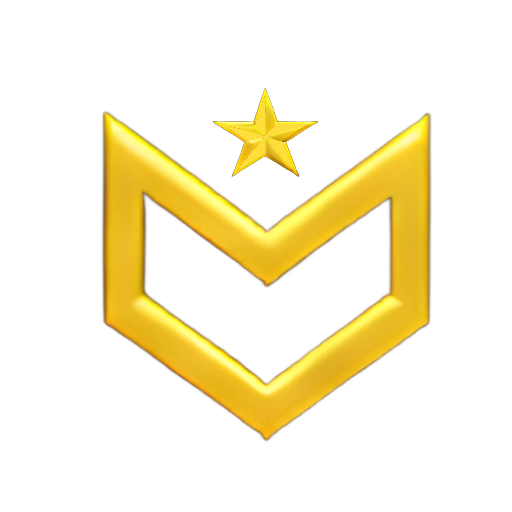
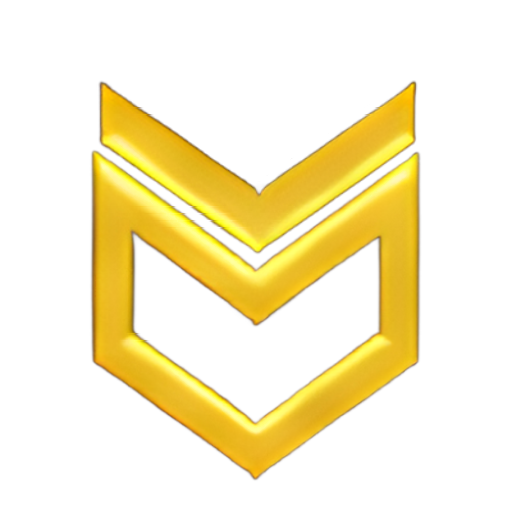
new rank insignias, app shell XP header updates

Changed region(s): [[0.1562, 0.1562, 0.8438, 0.9375]]

diff --git a/src/app/tasktimer/styles/01-shell.css b/src/app/tasktimer/styles/01-shell.css
@@ -517,7 +517,7 @@ body[data-app-page="dashboard"] #app[aria-label="TaskLaunch App"]::-webkit-scrol
   margin-left:auto;
   padding:5px 10px;
   overflow:hidden;
-  border:1px solid rgba(255,255,255,.07);
+  border:0;
   border-radius:0;
   background:transparent;
   box-shadow:none;
@@ -557,7 +557,7 @@ body[data-app-page="dashboard"] #app[aria-label="TaskLaunch App"]::-webkit-scrol
   min-width:clamp(64px, 12vw, 112px);
   height:9px;
   overflow:hidden;
-  border-radius:999px;
+  border-radius:0;
   border:1px solid rgba(255,255,255,.18);
   background:#0d1118;
   box-shadow:none;
@@ -593,8 +593,8 @@ body[data-app-page="dashboard"] #app[aria-label="TaskLaunch App"]::-webkit-scrol
   outline-offset:4px;
 }
 #app[aria-label="TaskLaunch App"] .appShellHeaderXpInsigniaShell{
-  width:24px;
-  height:24px;
+  width:36px;
+  height:36px;
   display:block;
   flex:0 0 auto;
 }
@@ -610,6 +610,7 @@ body[data-app-page="dashboard"] #app[aria-label="TaskLaunch App"]::-webkit-scrol
   text-overflow:ellipsis;
   white-space:nowrap;
   font-family:var(--font-orbitron);
+  text-transform:uppercase;
   font-size:10px;
   line-height:1;
   letter-spacing:.08em;

diff --git a/src/app/tasktimer/lib/rewards.ts b/src/app/tasktimer/lib/rewards.ts
@@ -156,7 +156,7 @@ export const RANK_MODAL_THUMBNAIL_BY_ID: Record<string, string> = {
   specialist: "/insignias/006_specialist.png",
   strategist: "/insignias/007_strategist.png",
   director: "/insignias/008_director.png",
-  ascendent: "/insignias/ascendent.png",
+  ascendent: "/insignias/009_ascendent.png",
   commander: "/insignias/commander.png",
   architect: "/insignias/architect.png",
 };
@@ -173,7 +173,7 @@ const RANK_MODAL_THUMBNAIL_FALLBACK_BY_ID: Record<string, string> = {
   specialist: "/insignias/006_specialist.png",
   strategist: "/insignias/007_strategist.png",
   director: "/insignias/008_director.png",
-  ascendent: "/insignias/ascendent.png",
+  ascendent: "/insignias/009_ascendent.png",
   commander: "/insignias/commander.png",
   architect: "/insignias/architect.png",
 };

diff --git a/src/app/tasktimer/components/TaskTimerAppFrame.tsx b/src/app/tasktimer/components/TaskTimerAppFrame.tsx
@@ -29,6 +29,10 @@ type TaskTimerAppFrameProps = {
   };
 };
 
+function formatXpNumber(value: number) {
+  return Math.max(0, Math.floor(Number(value) || 0)).toLocaleString();
+}
+
 export default function TaskTimerAppFrame({
   activePage,
   children,
@@ -254,7 +258,7 @@ export default function TaskTimerAppFrame({
                     <span className="appShellHeaderXpFill" style={{ width: `${rewardsHeader.progressPct}%` }} />
                   </div>
                   <strong className="appShellHeaderXpValue">
-                    {rewardsHeader.totalXp} XP
+                    {formatXpNumber(rewardsHeader.totalXp)} XP
                     {showMaxXpAlert ? <span className="appShellXpValueAlert" aria-hidden="true"> !</span> : null}
                   </strong>
                 </button>

diff --git a/src/app/tasktimer/client/dashboard-render.ts b/src/app/tasktimer/client/dashboard-render.ts
@@ -58,9 +58,13 @@ export function createTaskTimerDashboardRender(ctx: TaskTimerDashboardRenderCont
   const DASHBOARD_COMPLETED_SEGMENT_GAP_PCT = 1.2;
   const DASHBOARD_COMPLETED_MIN_VISIBLE_SLICE_PCT = 1.4;
 
+  function formatXpNumber(value: number) {
+    return Math.max(0, Math.floor(Number(value) || 0)).toLocaleString();
+  }
+
   function syncXpValueAlert(valueEl: HTMLElement | null, totalXp: number, showAlert: boolean, alertClassName: string) {
     if (!valueEl) return;
-    valueEl.textContent = `${totalXp} XP`;
+    valueEl.textContent = `${formatXpNumber(totalXp)} XP`;
     const existingAlert = valueEl.querySelector(`.${alertClassName}`);
     if (showAlert) {
       if (existingAlert) return;

diff --git a/src/app/tasktimer/components/AddTaskOverlay.tsx b/src/app/tasktimer/components/AddTaskOverlay.tsx
@@ -42,7 +42,7 @@ export default function AddTaskOverlay() {
             </div>
 
             <div className="unitButtons timerTypePills editTaskTypePills" id="addTaskTypePills" role="group" aria-label="Task type">
-              <button className="btn btn-ghost small unitBtn timerTypePill" id="addTaskTypeRecurringBtn" type="button" aria-pressed="false">
+              <button className="btn btn-ghost small unitBtn timerTypePill isOn" id="addTaskTypeRecurringBtn" type="button" aria-pressed="true">
                 Recurring
               </button>
               <button className="btn btn-ghost small unitBtn timerTypePill" id="addTaskTypeOnceOffBtn" type="button" aria-pressed="false">

diff --git a/src/app/tasktimer/styles/08-friends.css b/src/app/tasktimer/styles/08-friends.css
@@ -692,7 +692,7 @@ body[data-theme="purple"] .friendSharedTaskCard.friendSharedTaskCardState-runnin
 #app[aria-label="TaskLaunch App"] #appPageFriends #groupsOutgoingRequestsDetails > summary,
 #app[aria-label="TaskLaunch App"] #appPageFriends .friendEntryWrap,
 #app[aria-label="TaskLaunch App"] #appPageFriends .friendSharedTaskCard{
-  background: #0d0f13 !important;
+  background: transparent !important;
   box-shadow: none !important;
   filter: none !important;
   border-color: rgba(255,255,255,.08) !important;

diff --git a/src/app/tasktimer/client/state.ts b/src/app/tasktimer/client/state.ts
@@ -105,7 +105,7 @@ export function createInitialTaskTimerState(initialAppPage: AppPage): TaskTimerM
     timeGoalModalFrozenElapsedMs: 0,
     timeGoalReminderAtMsByTaskId: {},
     addTaskWizardStep: 1,
-    addTaskType: null,
+    addTaskType: "recurring",
     addTaskOnceOffDay: "mon",
     addTaskPlannedStartTime: "09:00",
     addTaskDurationValue: 5,

diff --git a/src/app/tasktimer/client/add-task.ts b/src/app/tasktimer/client/add-task.ts
@@ -650,7 +650,7 @@ export function createTaskTimerAddTask(ctx: TaskTimerAddTaskContext) {
   }
 
   function resetAddTaskState() {
-    ctx.setAddTaskTypeState(null);
+    ctx.setAddTaskTypeState("recurring");
     ctx.setAddTaskOnceOffDayState("mon");
     ctx.setAddTaskPlannedStartTimeState("09:00");
     ctx.setAddTaskDurationValueState(0);
